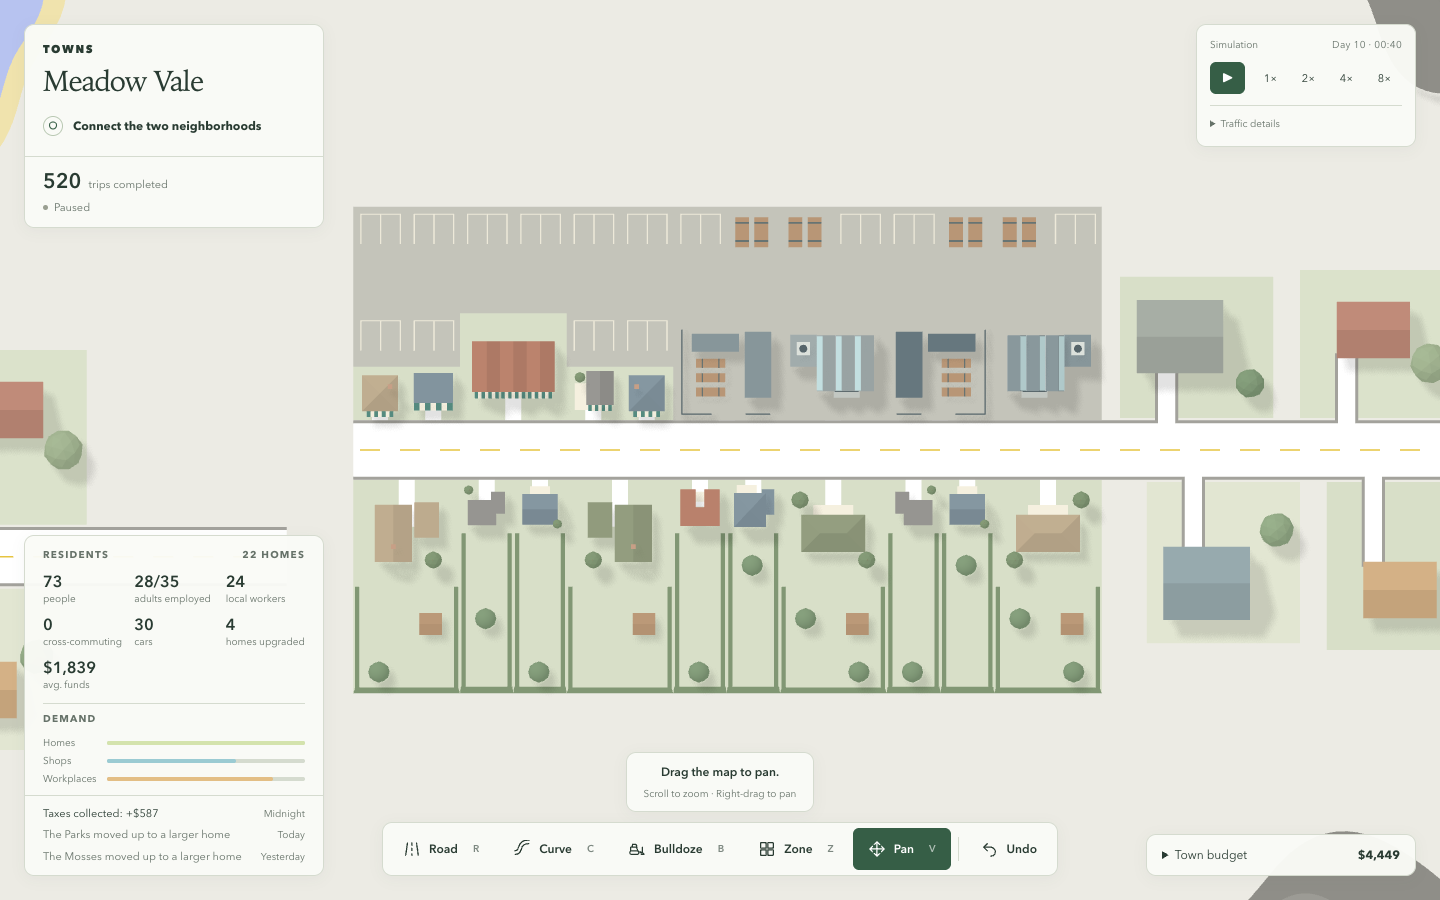
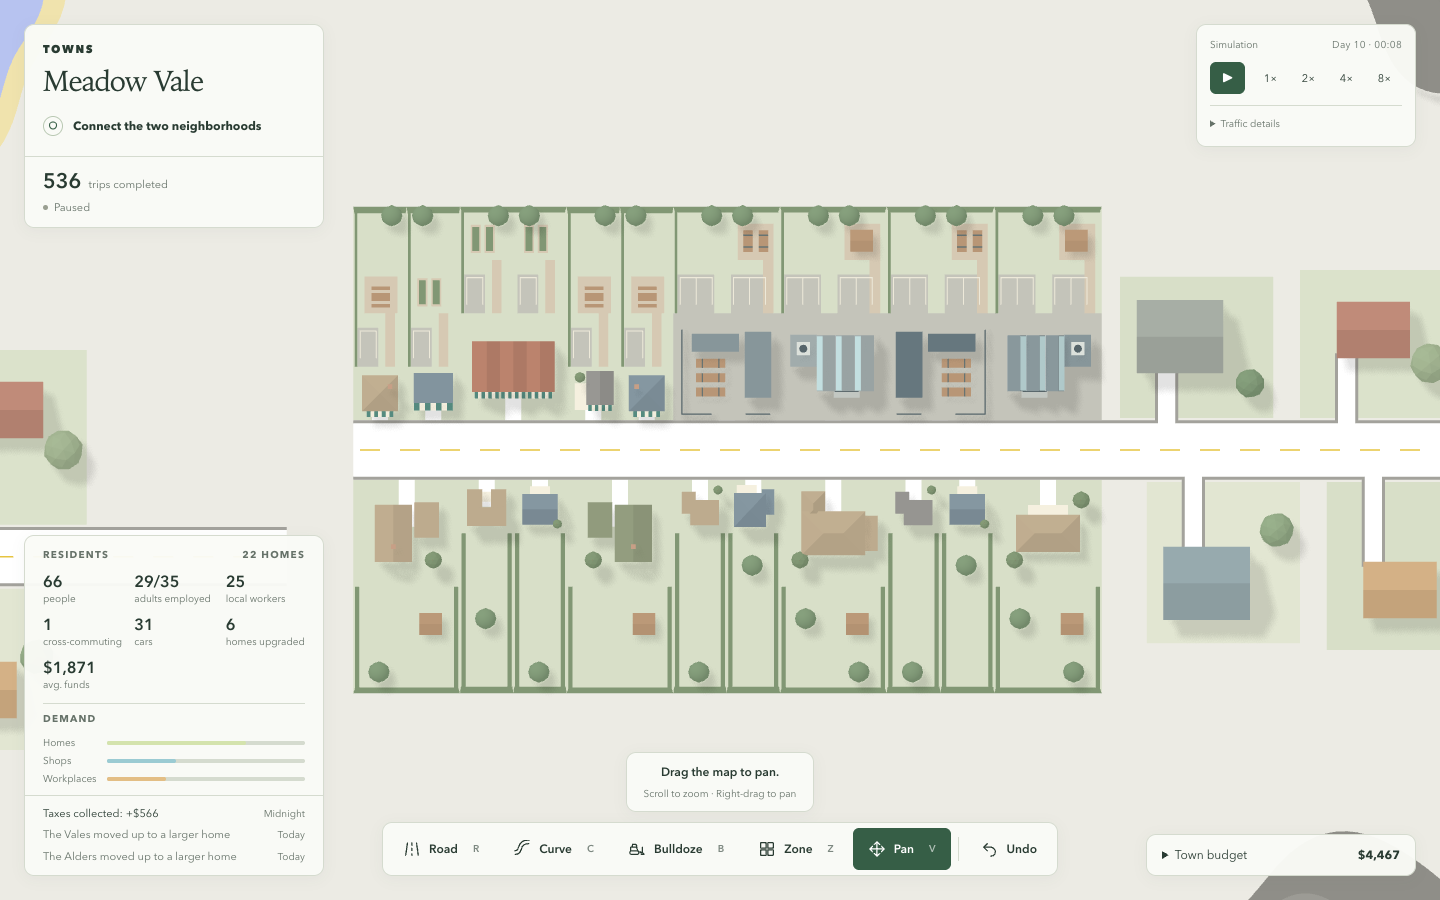
Scale business parking to the lot and plant the remaining yard

diff --git a/src/render/yards.ts b/src/render/yards.ts
@@ -10,6 +10,8 @@ import { cellQuad } from './zones';
 type Lot = NonNullable<HouseholdView['lot']>;
 export interface YardDetails {
   ground: FlatMesh;
+  paving: FlatMesh;
+  gravel: FlatMesh;
   hedge: FlatMesh;
   marking: FlatMesh;
   timber: FlatMesh;
@@ -25,16 +27,66 @@ export interface PaintedLand {
 
 const lerp = (a: Vec2, b: Vec2, t: number) => ({ x: a.x + (b.x - a.x) * t, y: a.y + (b.y - a.y) * t });
 
+type CellPoint = (x: number, y: number) => Vec2;
+
+/** Coordinates are fractions of this cell so a pad follows the curve of its plot. */
+function businessYard(point: CellPoint, details: YardDetails, blueprint: Blueprint, rowBehind: number, column: number) {
+  const rect = (mesh: FlatMesh, x: number, y: number, w: number, h: number) =>
+    mesh.quad(point(x, y), point(x + w, y), point(x + w, y + h), point(x, y + h));
+  const shop = blueprint.zone === 'shops';
+  if (rowBehind === 0) {
+    // Half the job capacity: one space per shop column, two per workplace column.
+    const bays = shop ? 1 : 2;
+    rect(details.paving, 0.08, 0, bays * 0.30 + 0.09, 0.73);
+    for (let i = 0; i <= bays; i++) rect(details.marking, 0.12 + i * 0.30, 0.16, 0.018, 0.52);
+    rect(details.marking, 0.12, 0.66, bays * 0.30, 0.02);
+    if (shop) {
+      // A gravel path links the shop door to its patio or garden.
+      rect(details.gravel, 0.60, 0, 0.18, 1);
+    } else if (column % 2 === 0) {
+      rect(details.gravel, 0.68, 0, 0.20, 1);
+    }
+  } else if (rowBehind === 1) {
+    if (shop) {
+      const cafe = blueprint.id === 'lime-cafe' || blueprint.id === 'bread-shop';
+      if (cafe) {
+        rect(details.gravel, 0.21, 0, 0.62, 0.69);
+        // A timber picnic table with two separate benches.
+        rect(details.timber, 0.34, 0.23, 0.35, 0.15);
+        for (const y of [0.11, 0.44]) rect(details.timber, 0.34, y, 0.35, 0.065);
+      } else {
+        for (const x of [0.20, 0.46]) {
+          rect(details.gravel, x, 0.13, 0.19, 0.53);
+          rect(details.hedge, x + 0.03, 0.17, 0.13, 0.45);
+        }
+      }
+    } else if (column % 2 === 0) {
+      rect(details.gravel, 0.21, 0, 0.67, 0.68);
+      if (blueprint.id === 'survey-office' || blueprint.id === 'studios') {
+        const p = point(0.53, 0.36);
+        const q = point(0.67, 0.36);
+        details.sheds.push({ ...p, angle: Math.atan2(q.y - p.y, q.x - p.x) });
+      } else {
+        for (const x of [0.31, 0.60]) {
+          rect(details.timber, x, 0.15, 0.18, 0.41);
+          for (const y of [0.23, 0.45]) rect(details.straps, x, y, 0.18, 0.03);
+        }
+      }
+    }
+  }
+}
+
 /** Follow each column independently, stopping at a gap, different paint or starter garden. */
 export function extendYard(lot: Lot, blueprint: Blueprint, land: PaintedLand, houses: readonly House[],
-  { ground, hedge, marking, timber, straps, trees, sheds }: YardDetails): Vec2[] {
+  details: YardDetails): Vec2[] {
+  const { ground, hedge, trees, sheds } = details;
   const { road, side, column } = decodeCellKey(lot.key);
   const rear: Vec2[] = [];
   for (let i = 0; i < lot.columns; i++) {
     const col = column + (side === 0 ? i : lot.columns - 1 - i);
     let left = lot.corners.at(-1 - i)!;
     let right = lot.corners.at(-2 - i)!;
-    let extended = false;
+    let lastCell: CellPoint | undefined;
     for (let row = lot.rows; row < ZONE_ROWS; row++) {
       const key = cellKey(road, col, side, row);
       if (land.zoning.get(key) !== blueprint.zone) break;
@@ -45,30 +97,26 @@ export function extendYard(lot: Lot, blueprint: Blueprint, land: PaintedLand, ho
       ground.quad(a!, b!, c!, d!);
       left = d!;
       right = c!;
-      extended = true;
+
       const point = (x: number, y: number) => lerp(lerp(a!, b!, x), lerp(d!, c!, x), y);
+      lastCell = point;
       if (blueprint.zone === 'residential') {
         if (i === 0 && row === lot.rows && col % 4 === 0) sheds.push({ ...point(0.55, 0.7), angle: lot.angle });
         else if ((col + row) % 3 === 0) trees.push(point(0.52, 0.6));
         if (i === 0) hedge.quad(point(0.03, 0), point(0.11, 0), point(0.11, 1), point(0.03, 1));
         if (i === lot.columns - 1) hedge.quad(point(0.89, 0), point(0.97, 0), point(0.97, 1), point(0.89, 1));
-      } else if (blueprint.zone === 'workplaces' && row === ZONE_ROWS - 1 && col % 3 !== 0) {
-        for (const x of [0.16, 0.52]) {
-          timber.quad(point(x, 0.24), point(x + 0.26, 0.24), point(x + 0.26, 0.8), point(x, 0.8));
-          for (const y of [0.34, 0.68]) {
-            straps.quad(point(x, y), point(x + 0.26, y), point(x + 0.26, y + 0.035), point(x, y + 0.035));
-          }
-        }
-      } else if (row % 2 === 1) {
-        // Leave a circulation aisle between rows of parking.
-        // Two parking bays sharing a rear stop line.
-        for (const x of [0.13, 0.5, 0.87]) marking.quad(point(x, 0.3), point(x + 0.025, 0.3), point(x + 0.025, 0.87), point(x, 0.87));
-        marking.quad(point(0.13, 0.85), point(0.895, 0.85), point(0.895, 0.87), point(0.13, 0.87));
+      } else {
+        businessYard(point, details, blueprint, row - lot.rows, col);
+        if (i === 0) hedge.quad(point(0.025, 0), point(0.075, 0), point(0.075, 1), point(0.025, 1));
       }
     }
-    if (extended && blueprint.zone === 'residential') {
+    if (lastCell) {
       const near = (p: Vec2) => lerp(p, {x: lot.x, y: lot.y}, 0.035);
       hedge.quad(left, right, near(right), near(left));
+      if (blueprint.zone !== 'residential') {
+        const x = col % 2 === 0 ? 0.30 : 0.72;
+        trees.push(lastCell(x, 0.83));
+      }
     }
     const prev = rear.at(-1);
     if (!prev || prev.x !== left.x || prev.y !== left.y) rear.push(left);

diff --git a/src/render/houses.ts b/src/render/houses.ts
@@ -150,6 +150,7 @@ export class HouseLayer {
     const gardens = new FlatMesh(0.042);
     // Paving covers the driveway ribbon inside the parcel, leaving the kerb entrance visible.
     const yards = new FlatMesh(0.054);
+    const gravel = new FlatMesh(0.055);
     const driveways = new FlatMesh(0.048);
     const hedges = new FlatMesh(0.08);
     const timber = new FlatMesh(0.35);
@@ -163,8 +164,7 @@ export class HouseLayer {
       const surface = blueprint.zone === 'workplaces' ? yards : gardens;
       surface.polygon(lot.corners);
       if (this.land) {
-        const ground = blueprint.zone === 'residential' ? gardens : yards;
-        const corners = extendYard(lot, blueprint, this.land, this.houses, { ground, hedge: hedges, marking: markings, trees, sheds, timber, straps });
+        const corners = extendYard(lot, blueprint, this.land, this.houses, { ground: gardens, paving: yards, gravel, hedge: hedges, marking: markings, trees, sheds, timber, straps });
         grown.set(id, { ...lot, corners });
       }
       driveways.ribbon(polyline([{ x: lot.streetX, y: lot.streetY }, lot]), 2.4);
@@ -186,7 +186,7 @@ export class HouseLayer {
     }
     const industrial = PALETTE.building.industrial;
     const surfaces = [
-      [hedges, PALETTE.building.hedge], [markings, industrial.marking], [timber, industrial.timber],
+      [gravel, PALETTE.yardGravel], [hedges, PALETTE.building.hedge], [markings, industrial.marking], [timber, industrial.timber],
       [straps, industrial.strap], [gardens, PALETTE.gardens[0]], [yards, industrial.apron], [driveways, PALETTE.roadSurface],
     ] as const;
     for (const [mesh, colour] of surfaces) {

diff --git a/src/render/palette.ts b/src/render/palette.ts
@@ -37,6 +37,7 @@ export const PALETTE = {
   carModels: ['#a08465', '#2f6d55', '#a8324a'],
 
   gardens: ['#d8dfc8', '#e2e6d2', '#dbe2cb'],
+  yardGravel: '#d6c9b3',
   orchard: ['#829b79', '#94ab87', '#a2b491'],
   cottageRoofs: ['#bc8876', '#94a6aa', '#d0ad83', '#a3aaa1'],
 
